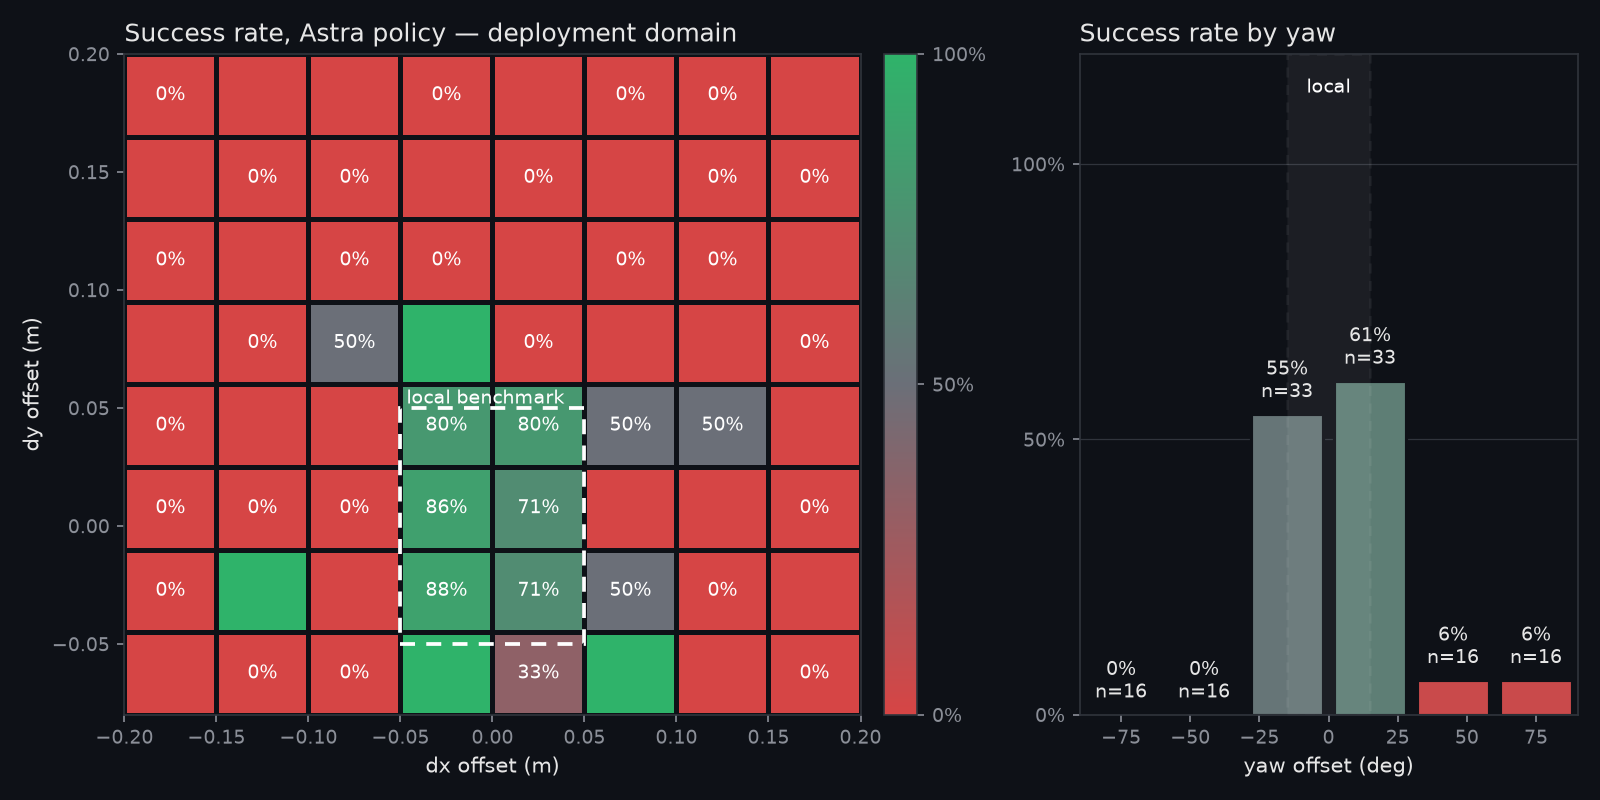
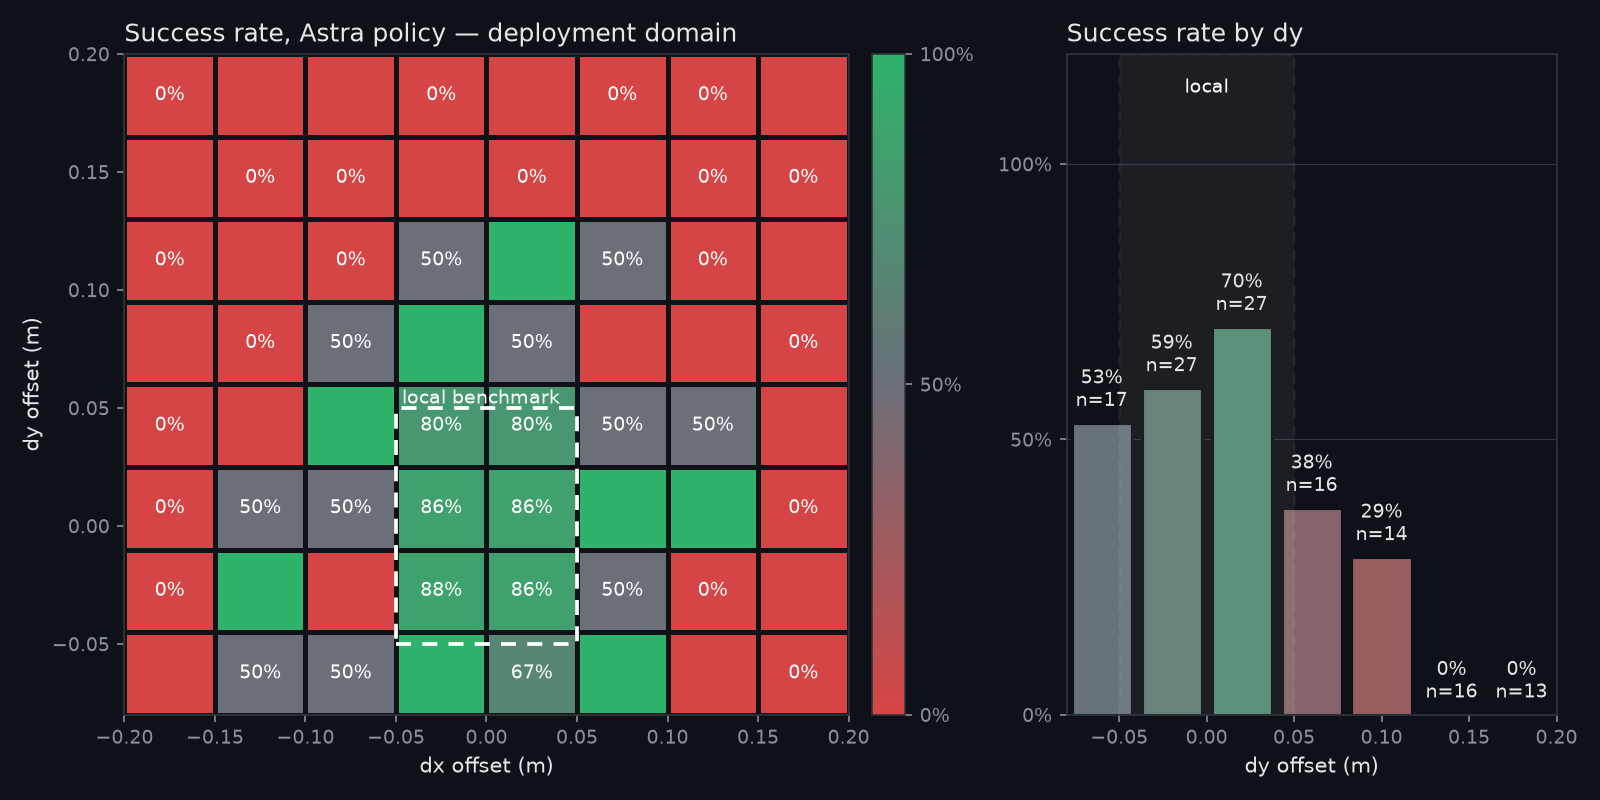
analysis: marginal panel over dy (yaw is null for easy); any param works for axes/marginal

diff --git a/analysis/coverage.py b/analysis/coverage.py
@@ -13,7 +13,7 @@ UNITS = {"dx": "m", "dy": "m", "yaw": "deg"}
 
 # Spec defaults, used only when runner.sample is not importable.
 _LOCAL_BOX = {"dx": (-0.05, 0.05), "dy": (-0.05, 0.05), "yaw": (-15.0, 15.0)}
-_DEPLOY_BOX = {"dx": (-0.20, 0.20), "dy": (-0.20, 0.20), "yaw": (-90.0, 90.0)}
+_DEPLOY_BOX = {"dx": (-0.20, 0.20), "dy": (-0.08, 0.20), "yaw": (-90.0, 90.0)}
 
 # Dark surface shared with the Streamlit page.
 BG = "#0e1117"
@@ -155,7 +155,9 @@ def _cmap():
 
 
 def heatmap(df, x="dx", y="dy", local_box=None, path="results/heatmap.png", deploy_box=None,
-            bins=8, yaw_bins=6) -> str:
+            bins=8, marginal="dy", marginal_bins=7) -> str:
+    """2-D success grid over (x, y) plus a 1-D success marginal over `marginal`.
+    Any of dx, dy, yaw works for x, y or marginal (yaw matters for `medium`, not `easy`)."""
     import matplotlib
     matplotlib.use("Agg")
     import matplotlib.pyplot as plt
@@ -207,8 +209,8 @@ def heatmap(df, x="dx", y="dy", local_box=None, path="results/heatmap.png", depl
     ax.text(llx, lhy, " local benchmark", color="white", fontsize=9, va="bottom", ha="left")
     ax.set_xlim(xlo, xhi)
     ax.set_ylim(ylo, yhi)
-    ax.set_xlabel(f"{x} offset (m)", color=INK, fontsize=10)
-    ax.set_ylabel(f"{y} offset (m)", color=INK, fontsize=10)
+    ax.set_xlabel(f"{x} offset ({UNITS[x]})", color=INK, fontsize=10)
+    ax.set_ylabel(f"{y} offset ({UNITS[y]})", color=INK, fontsize=10)
     ax.set_title("Success rate, Astra policy — deployment domain", color=INK, fontsize=12, loc="left")
     cb = fig.colorbar(im, ax=ax, fraction=0.046, pad=0.03)
     cb.ax.tick_params(colors=MUTED, labelsize=9)
@@ -216,12 +218,13 @@ def heatmap(df, x="dx", y="dy", local_box=None, path="results/heatmap.png", depl
     cb.set_ticks([0, 0.5, 1])
     cb.set_ticklabels(["0%", "50%", "100%"])
 
-    # --- 1-D marginal over yaw ---
-    wlo, whi = _range(deploy_box, "yaw")
-    we = np.linspace(wlo, whi, yaw_bins + 1)
-    wi = np.clip(np.digitize(df["yaw"], we) - 1, 0, yaw_bins - 1)
-    wn = np.bincount(wi, minlength=yaw_bins)
-    wk = np.bincount(wi, weights=succ, minlength=yaw_bins)
+    # --- 1-D marginal ---
+    m = marginal
+    wlo, whi = _range(deploy_box, m)
+    we = np.linspace(wlo, whi, marginal_bins + 1)
+    wi = np.clip(np.digitize(df[m], we) - 1, 0, marginal_bins - 1)
+    wn = np.bincount(wi, minlength=marginal_bins)
+    wk = np.bincount(wi, weights=succ, minlength=marginal_bins)
     with np.errstate(invalid="ignore", divide="ignore"):
         wr = np.where(wn > 0, wk / wn, 0.0)
     centers = (we[:-1] + we[1:]) / 2
@@ -230,7 +233,7 @@ def heatmap(df, x="dx", y="dy", local_box=None, path="results/heatmap.png", depl
     for cx, v, cnt in zip(centers, wr, wn):
         if cnt:
             ax2.text(cx, v + 0.02, f"{v:.0%}\nn={cnt}", ha="center", va="bottom", fontsize=9, color=INK)
-    llw, lhw = _range(local_box, "yaw")
+    llw, lhw = _range(local_box, m)
     ax2.axvspan(llw, lhw, facecolor="white", alpha=0.06, edgecolor="white", linestyle=(0, (4, 3)),
                 linewidth=1.2)
     ax2.text((llw + lhw) / 2, 1.13, "local", color="white", fontsize=9, ha="center")
@@ -238,8 +241,8 @@ def heatmap(df, x="dx", y="dy", local_box=None, path="results/heatmap.png", depl
     ax2.set_ylim(0, 1.2)
     ax2.set_yticks([0, 0.5, 1])
     ax2.set_yticklabels(["0%", "50%", "100%"])
-    ax2.set_xlabel("yaw offset (deg)", color=INK, fontsize=10)
-    ax2.set_title("Success rate by yaw", color=INK, fontsize=12, loc="left")
+    ax2.set_xlabel(f"{m} offset ({UNITS[m]})", color=INK, fontsize=10)
+    ax2.set_title(f"Success rate by {m}", color=INK, fontsize=12, loc="left")
     ax2.grid(axis="y", color="#30343c", linewidth=0.6)
     ax2.set_axisbelow(True)
 

diff --git a/README.md b/README.md
@@ -60,7 +60,7 @@ Add `--fake` to either batch command to run the analytic fake sim instead.
 - One task, one policy, one simulator. No real hardware.
 - n ≈ 100 deployment trials. Each cell of the heatmap holds a few trials, so cell rates are noisy.
 - Coverage is box volume. It does not weight regions by how often deployment visits them.
-- Yaw has no effect on a sphere. The flat yaw panel is expected.
+- Yaw is sampled but has no effect on a sphere (the `easy` task). The `medium` task (a tapered block) makes it matter.
 - The deployment `dy` range stops at −0.08 m. Below that the sphere starts inside the basket wall.
 
 ## Roadmap
